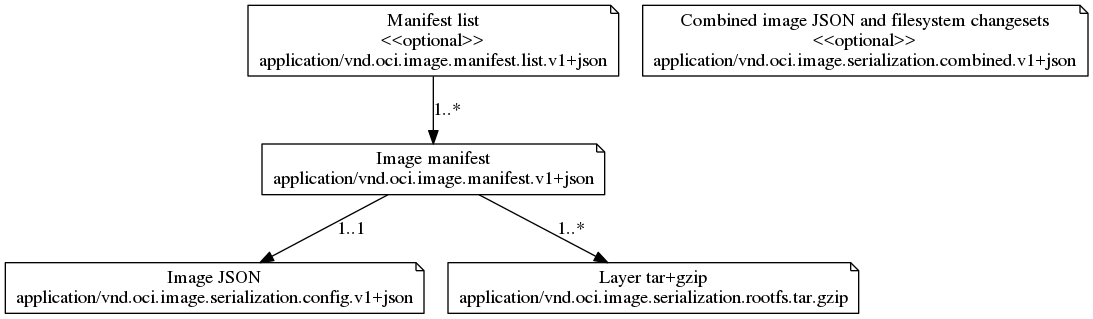
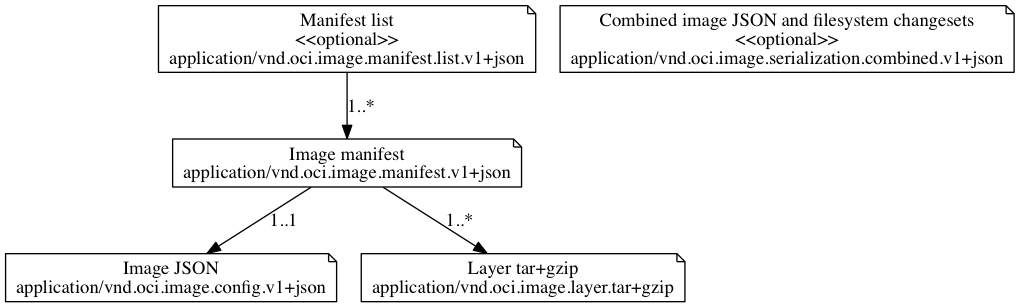
serialization: remove extra "hierarchy" from mediatypes
The fact that we are serializing is implied. This PR removes the extra
bits in the media type that only serve to confuse and waste bytes. The
new media types better reflect the reality for the usage of each type
and how they relate.

This must be followed up by a split of the serialization document, but
this change _should_ be applied first.

This change is backwards incompatible with previous versions of the OCI
specification. Since we are before 1.0, this is acceptable.

diff --git a/schema/schema.go b/schema/schema.go
@@ -18,11 +18,11 @@ import "net/http"
 
 // Media types for the OCI image formats
 const (
-	MediaTypeDescriptor               Validator     = `application/vnd.oci.descriptor.v1+json`
-	MediaTypeManifest                 Validator     = `application/vnd.oci.image.manifest.v1+json`
-	MediaTypeManifestList             Validator     = `application/vnd.oci.image.manifest.list.v1+json`
-	MediaTypeImageSerialization       unimplemented = `application/vnd.oci.image.serialization.rootfs.tar.gzip`
-	MediaTypeImageSerializationConfig Validator     = `application/vnd.oci.image.serialization.config.v1+json`
+	MediaTypeDescriptor   Validator     = `application/vnd.oci.descriptor.v1+json`
+	MediaTypeManifest     Validator     = `application/vnd.oci.image.manifest.v1+json`
+	MediaTypeManifestList Validator     = `application/vnd.oci.image.manifest.list.v1+json`
+	MediaTypeImageConfig  Validator     = `application/vnd.oci.image.config.v1+json`
+	MediaTypeImageLayer   unimplemented = `application/vnd.oci.image.layer.tar+gzip`
 )
 
 var (
@@ -32,10 +32,10 @@ var (
 
 	// specs maps OCI schema media types to schema files.
 	specs = map[Validator]string{
-		MediaTypeDescriptor:               "content-descriptor.json",
-		MediaTypeManifest:                 "image-manifest-schema.json",
-		MediaTypeManifestList:             "manifest-list-schema.json",
-		MediaTypeImageSerializationConfig: "config-schema.json",
+		MediaTypeDescriptor:   "content-descriptor.json",
+		MediaTypeManifest:     "image-manifest-schema.json",
+		MediaTypeManifestList: "manifest-list-schema.json",
+		MediaTypeImageConfig:  "config-schema.json",
 	}
 )
 

diff --git a/schema/manifest_test.go b/schema/manifest_test.go
@@ -66,7 +66,7 @@ func TestManifest(t *testing.T) {
   },
   "layers": [
     {
-      "mediaType": "application/vnd.oci.image.serialization.rootfs.tar.gzip",
+      "mediaType": "application/vnd.oci.image.layer.tar+gzip",
       "size": "675598"
     }
   ]
@@ -88,17 +88,17 @@ func TestManifest(t *testing.T) {
   },
   "layers": [
     {
-      "mediaType": "application/vnd.oci.image.serialization.rootfs.tar.gzip",
+      "mediaType": "application/vnd.oci.image.layer.tar+gzip",
       "size": 675598,
       "digest": "sha256:9d3dd9504c685a304985025df4ed0283e47ac9ffa9bd0326fddf4d59513f0827"
     },
     {
-      "mediaType": "application/vnd.oci.image.serialization.rootfs.tar.gzip",
+      "mediaType": "application/vnd.oci.image.layer.tar+gzip",
       "size": 156,
       "digest": "sha256:2b689805fbd00b2db1df73fae47562faac1a626d5f61744bfe29946ecff5d73d"
     },
     {
-      "mediaType": "application/vnd.oci.image.serialization.rootfs.tar.gzip",
+      "mediaType": "application/vnd.oci.image.layer.tar+gzip",
       "size": 148,
       "digest": "sha256:c57089565e894899735d458f0fd4bb17a0f1e0df8d72da392b85c9b35ee777cd"
     }

diff --git a/schema/manifest_backwards_compatibility_test.go b/schema/manifest_backwards_compatibility_test.go
@@ -28,7 +28,7 @@ var compatMap = map[string]string{
 	"application/vnd.docker.distribution.manifest.list.v2+json": "application/vnd.oci.image.manifest.list.v1+json",
 	"application/vnd.docker.distribution.manifest.v2+json":      "application/vnd.oci.image.manifest.v1+json",
 	"application/vnd.docker.image.rootfs.diff.tar.gzip":         "application/vnd.oci.image.rootfs.tar.gzip",
-	"application/vnd.docker.container.image.v1+json":            "application/vnd.oci.image.serialization.config.v1+json",
+	"application/vnd.docker.container.image.v1+json":            "application/vnd.oci.image.config.v1+json",
 }
 
 // convertFormats converts Docker v2.2 image format JSON documents to OCI
@@ -220,7 +220,7 @@ func TestBackwardsCompatibilityConfig(t *testing.T) {
 
 		manifest := convertFormats(tt.manifest)
 		r := strings.NewReader(manifest)
-		err := schema.MediaTypeImageSerializationConfig.Validate(r)
+		err := schema.MediaTypeImageConfig.Validate(r)
 
 		if got := err != nil; tt.fail != got {
 			t.Errorf("test %d: expected validation failure %t but got %t, err %v", i, tt.fail, got, err)

diff --git a/specs-go/v1/mediatype.go b/specs-go/v1/mediatype.go
@@ -25,8 +25,8 @@ const (
 	MediaTypeImageManifestList = "application/vnd.oci.image.manifest.list.v1+json"
 
 	// MediaTypeImageSerialization is the mediaType used for layers referenced by the manifest.
-	MediaTypeImageSerialization = "application/vnd.oci.image.serialization.rootfs.tar.gzip"
+	MediaTypeImageSerialization = "application/vnd.oci.image.layer.tar+gzip"
 
 	// MediaTypeImageSerializationConfig specifies the mediaType for the image configuration.
-	MediaTypeImageSerializationConfig = "application/vnd.oci.image.serialization.config.v1+json"
+	MediaTypeImageSerializationConfig = "application/vnd.oci.image.config.v1+json"
 )

diff --git a/image/config.go b/image/config.go
@@ -62,7 +62,7 @@ func findConfig(w walker, d *descriptor) (*config, error) {
 			return errors.Wrapf(err, "%s: error reading config", path)
 		}
 
-		if err := schema.MediaTypeImageSerializationConfig.Validate(bytes.NewReader(buf)); err != nil {
+		if err := schema.MediaTypeImageConfig.Validate(bytes.NewReader(buf)); err != nil {
 			return errors.Wrapf(err, "%s: config validation failed", path)
 		}
 

diff --git a/schema/config_test.go b/schema/config_test.go
@@ -156,7 +156,7 @@ func TestConfig(t *testing.T) {
 		},
 	} {
 		r := strings.NewReader(tt.config)
-		err := schema.MediaTypeImageSerializationConfig.Validate(r)
+		err := schema.MediaTypeImageConfig.Validate(r)
 
 		if got := err != nil; tt.fail != got {
 			t.Errorf("test %d: expected validation failure %t but got %t, err %v", i, tt.fail, got, err)

diff --git a/cmd/oci-image-tool/validate.go b/cmd/oci-image-tool/validate.go
@@ -142,7 +142,7 @@ func (v *validateCmd) validatePath(name string) error {
 		return schema.MediaTypeManifestList.Validate(f)
 
 	case typeConfig:
-		return schema.MediaTypeImageSerializationConfig.Validate(f)
+		return schema.MediaTypeImageConfig.Validate(f)
 	}
 
 	return fmt.Errorf("type %q unimplemented", typ)

diff --git a/image/manifest.go b/image/manifest.go
@@ -89,7 +89,7 @@ func (m *manifest) validate(w walker) error {
 
 func (m *manifest) unpack(w walker, dest string) error {
 	for _, d := range m.Layers {
-		if d.MediaType != string(schema.MediaTypeImageSerialization) {
+		if d.MediaType != string(schema.MediaTypeImageConfig) {
 			continue
 		}
 

diff --git a/manifest.md b/manifest.md
@@ -158,23 +158,23 @@ Unlike the [Manifest List](#manifest-list), which contains information about a s
   "schemaVersion": 2,
   "mediaType": "application/vnd.oci.image.manifest.v1+json",
   "config": {
-    "mediaType": "application/vnd.oci.image.serialization.config.v1+json",
+    "mediaType": "application/vnd.oci.image.config.v1+json",
     "size": 7023,
     "digest": "sha256:b5b2b2c507a0944348e0303114d8d93aaaa081732b86451d9bce1f432a537bc7"
   },
   "layers": [
     {
-      "mediaType": "application/vnd.oci.image.serialization.rootfs.tar.gzip",
+      "mediaType": "application/vnd.oci.image.layer.tar+gzip",
       "size": 32654,
       "digest": "sha256:e692418e4cbaf90ca69d05a66403747baa33ee08806650b51fab815ad7fc331f"
     },
     {
-      "mediaType": "application/vnd.oci.image.serialization.rootfs.tar.gzip",
+      "mediaType": "application/vnd.oci.image.layer.tar+gzip",
       "size": 16724,
       "digest": "sha256:3c3a4604a545cdc127456d94e421cd355bca5b528f4a9c1905b15da2eb4a4c6b"
     },
     {
-      "mediaType": "application/vnd.oci.image.serialization.rootfs.tar.gzip",
+      "mediaType": "application/vnd.oci.image.layer.tar+gzip",
       "size": 73109,
       "digest": "sha256:ec4b8955958665577945c89419d1af06b5f7636b4ac3da7f12184802ad867736"
     }

diff --git a/serialization.md b/serialization.md
@@ -38,7 +38,7 @@ This specification uses the following terms:
     <dd>
 	A layer DiffID is a SHA256 digest over the layer's uncompressed tar archive and serialized in the descriptor digest format, e.g., <code>sha256:a9561eb1b190625c9adb5a9513e72c4dedafc1cb2d4c5236c9a6957ec7dfd5a9</code>.
 	Layers must be packed and unpacked reproducibly to avoid changing the layer ID, for example by using tar-split to save the tar headers.
-	NOTE: the DiffID is different than the digest in the manifest list because the manifest digest is taken over the gzipped layer for `application/vnd.oci.image.serialization.rootfs.tar.gzip` types.
+	NOTE: the DiffID is different than the digest in the manifest list because the manifest digest is taken over the gzipped layer for `application/vnd.oci.image.layer.tar+gzip` types.
     </dd>
     <dt>
         Layer ChainID
@@ -66,7 +66,7 @@ This specification uses the following terms:
 
 Here is an example image JSON file:
 
-```json,title=Image%20JSON&mediatype=application/vnd.oci.image.serialization.config.v1%2Bjson
+```json,title=Image%20JSON&mediatype=application/vnd.oci.image.config.v1%2Bjson
 {  
     "created": "2015-10-31T22:22:56.015925234Z",
     "author": "Alyssa P. Hacker <alyspdev@example.com>",

diff --git a/media-types.md b/media-types.md
@@ -5,8 +5,8 @@ The following `mediaType` MIME types are used by the formats described here, and
 - `application/vnd.oci.descriptor.v1+json`: [Content Descriptor](descriptor.md)
 - `application/vnd.oci.image.manifest.list.v1+json`: [Manifest list](manifest.md#manifest-list)
 - `application/vnd.oci.image.manifest.v1+json`: [Image manifest format](manifest.md#image-manifest)
-- `application/vnd.oci.image.serialization.config.v1+json`: [Container config JSON](serialization.md)
-- `application/vnd.oci.image.serialization.rootfs.tar.gzip`: ["Layer", as a gzipped tar archive](layer.md)
+- `application/vnd.oci.image.layer.tar+gzip`: ["Layer", as a gzipped tar archive](layer.md)
+- `application/vnd.oci.image.config.v1+json`: [Container config JSON](serialization.md)
 
 ## Compatibility Matrix
 
@@ -32,7 +32,7 @@ This section shows where the OCI Image Specification is compatible with formats 
 
 - [application/vnd.docker.image.rootfs.diff.tar.gzip](https://github.com/docker/docker/blob/master/image/spec/v1.md#creating-an-image-filesystem-changeset)
 
-### application/vnd.oci.image.serialization.config.v1+json
+### application/vnd.oci.image.config.v1+json
 
 **Similar/related schema**
 

diff --git a/image-layout.md b/image-layout.md
@@ -83,13 +83,13 @@ $ cat ./blobs/sha256-afff3924849e458c5ef237db5f89539274d5e609db5db935ed3959c90f1
   "schemaVersion": 2,
   "mediaType": "application/vnd.oci.image.manifest.v1+json",
   "config": [
-    "mediaType": "application/vnd.oci.image.serialization.config.v1+json",
+    "mediaType": "application/vnd.oci.image.config.v1+json",
     "size": 7023,
     "digest": "sha256:5b0bcabd1ed22e9fb1310cf6c2dec7cdef19f0ad69efa1f392e94a4333501270"
   },
   "layers": [
     {
-      "mediaType": "application/vnd.oci.image.serialization.rootfs.tar.gzip",
+      "mediaType": "application/vnd.oci.image.layer.tar+gzip",
       "size": 32654,
       "digest": "sha256:e692418e4cbaf90ca69d05a66403747baa33ee08806650b51fab815ad7fc331f"
     },
